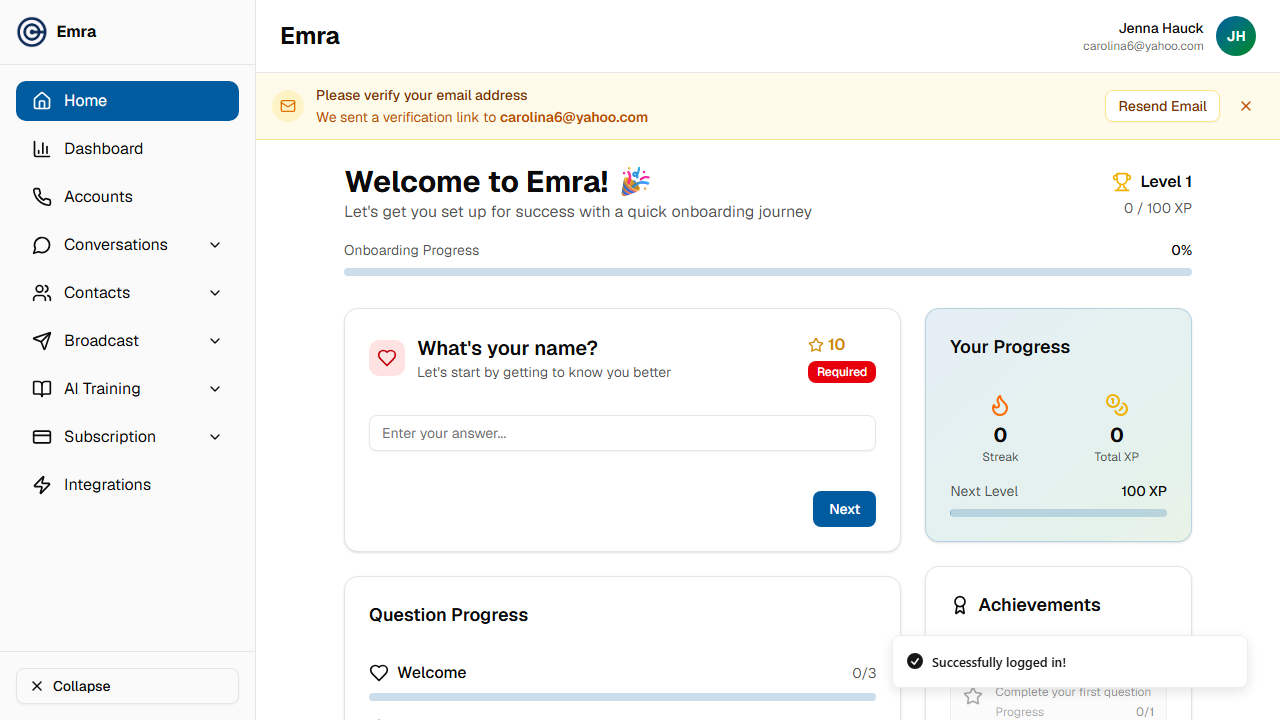
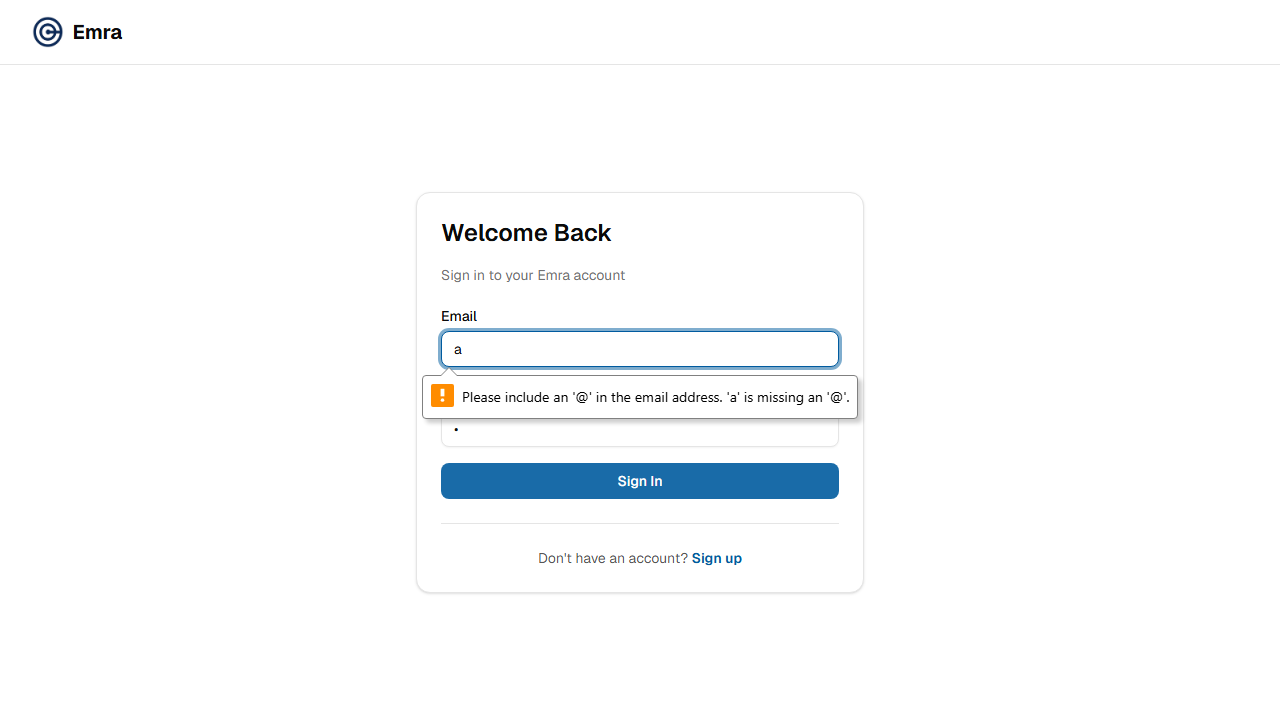
Tambah env dan perubahan config

diff --git a/pages/login.page.ts b/pages/login.page.ts
@@ -12,16 +12,12 @@ export class LoginPage {
     this.emailField = page.getByRole('textbox', { name: 'Email' });
     this.passwordField = page.getByRole('textbox', { name: 'Password' });
     this.loginButton = page.getByRole('button', { name: 'Sign In' });
-    this.welcomeText = page.getByRole('heading', {
-      name: 'Welcome to Emra! 🎉',
-      exact: true
-    });
+    this.welcomeText = page.getByRole('heading', {name: 'Welcome to Emra! 🎉',exact: true});
   }
 
   async goto(){
     await this.page.goto('/login'); // 
     await this.page.waitForLoadState('networkidle');
-    console.log("After Login URL:", await this.page.url());
     await expect(this.emailField).toBeVisible();
     await expect(this.passwordField).toBeVisible();
   }
@@ -29,56 +25,23 @@ export class LoginPage {
    async login(email: string, password: string) {
     await this.emailField.fill(email);
     await this.passwordField.fill(password);
-    console.log(
-    'Login Email:',
-    await this.emailField.inputValue()
-  );
-
-  console.log(
-    'Login Password:',
-    await this.passwordField.inputValue()
-  );
-
     await this.loginButton.click();
-
     await this.page.waitForTimeout(3000);
-
-    console.log('Current URL:', await this.page.url());
-
-    const bodyText = await this.page.locator('body').innerText();
-
-    console.log('PAGE CONTENT:');
-    console.log(bodyText);
-
-    await this.page.screenshot({
-      path: 'after-click-login.png',
-      fullPage: true
-    });
+    // await this.page.screenshot({path: 'after-click-login.png',fullPage: true});
   }
   
    async verifyLoginSuccess() {
-    await expect(
-      this.page.getByRole('heading', {name: 'Welcome to Emra! 🎉',
-        exact: true})).toBeVisible();
-  }
+    await expect(this.page.getByRole('heading', {name: 'Welcome to Emra! 🎉',exact: true})).toBeVisible();}
 
-  async verifyInvalidCredentials() {
-    await expect(
-      this.page.getByText('Invalid credentials')).toBeVisible();
-  }
+   async verifyInvalidCredentials() {
+    await expect(this.page.getByText('Invalid credentials')).toBeVisible();}
 
-  async getEmailValidationMessage() {
-    return await this.emailField.evaluate((el: HTMLInputElement) => el.validationMessage);
-  }
+   async getEmailValidationMessage() {
+    return await this.emailField.evaluate((el: HTMLInputElement) => el.validationMessage);}
 
-  async verifyInvalidEmailFormat() {
-  const validationMessage =
-    await this.emailField.evaluate(
-      (el: HTMLInputElement) => el.validationMessage
-    );
-
-  expect(validationMessage).toContain(
-    "Please include an '@' in the email address."
-  );
+   async verifyInvalidEmailFormat() {
+   const validationMessage =await this.emailField.evaluate((el: HTMLInputElement) => el.validationMessage);
+   expect(validationMessage).toContain("Please include an '@' in the email address."
+   );
 }
 }

diff --git a/tests/login/login.spec.ts b/tests/login/login.spec.ts
@@ -1,14 +1,15 @@
 import { test, expect } from '@playwright/test';
+import { testData } from '../../pages/test-data';
 
 test('test', async ({ page }) => {
   await page.goto('https://www.emra.chat/login');
   await page.getByRole('textbox', { name: 'Email' }).click();
-  await page.getByRole('textbox', { name: 'Email' }).fill('nuruddinam46@gmail.com');
+  await page.getByRole('textbox', { name: 'Email' }).fill(testData.login.valid.email);
   await page.getByRole('textbox', { name: 'Password' }).click();
   await page.getByRole('textbox', { name: 'Password' }).press('CapsLock');
   await page.getByRole('textbox', { name: 'Password' }).fill('S');
   await page.getByRole('textbox', { name: 'Password' }).press('CapsLock');
-  await page.getByRole('textbox', { name: 'Password' }).fill('Suksesmulia99');
+  await page.getByRole('textbox', { name: 'Password' }).fill(testData.login.valid.password);
   await page.getByRole('button', { name: 'Sign In' }).click();
   await expect(page.getByRole('heading', { name: 'Welcome to Emra! 🎉' })).toBeVisible();
   await page.screenshot({path: 'screenshots/login-success.png', fullPage: true});
@@ -19,8 +20,8 @@ test('login success use valid credential @p0 @login @smoketest', async ({ page }
   // Precondition
   await page.goto('https://www.emra.chat/login');
   // Step
-  await page.getByRole('textbox', {name: 'Email'}).fill('nuruddinam46@gmail.com');
-  await page.getByRole('textbox', {name: 'Password'}).fill('Suksesmulia99');
+  await page.getByRole('textbox', {name: 'Email'}).fill(testData.login.valid.email);
+  await page.getByRole('textbox', {name: 'Password'}).fill(testData.login.valid.password);
   await page.getByRole('button', {name: 'Sign In'}).click();
   // Expected Result
   await expect(page.getByRole('heading', {name: 'Welcome to Emra! 🎉',exact: true})).toBeVisible();

diff --git a/playwright.config.ts b/playwright.config.ts
@@ -8,22 +8,26 @@ dotenv.config({ path: path.resolve(__dirname, '.env') });
 export default defineConfig({
   testDir: './tests',
   
-  // 🟢 POSISI YANG BENAR: Taruh testIgnore di sini (top-level)
+  //   POSISI YANG BENAR: Taruh testIgnore di sini (top-level)
   testIgnore: '**/forgotpassword/**', // Sesuai dengan folder kamu: tests/forgotpassword/
 
   fullyParallel: true,
   forbidOnly: !!process.env.CI,
-  retries: process.env.CI ? 2 : 0,
-  workers: process.env.CI ? 1 : undefined,
-  reporter: 'html',
+  retries: Number(process.env.PLAYWRIGHT_RETRIES),
+  workers: Number(process.env.PLAYWRIGHT_WORKERS),
+  reporter: [
+    ['html'], // Tetap membuat laporan web HTML seperti biasa
+    ['json', { outputFile: 'playwright-report/results.json' }] // Menghasilkan file hasil.json
+  ],
+  timeout : 30000, //Setting timeout 30 detik
 
   use: {
-    // 🟢 Ambil URL utama dari .env, atau jadikan emra.chat sebagai default
-    baseURL: process.env.BASE_URL || 'https://www.emra.chat', 
+    //  Ambil URL utama dari .env, atau jadikan emra.chat sebagai default
+    baseURL: process.env.BASE_URL, 
 
     screenshot: 'only-on-failure', // Hanya ambil gambar saat gagal
     video: 'retain-on-failure',   // Hanya rekam video saat gagal
-    trace: 'retain-on-failure',   // 🟢 Trace viewer otomatis aktif di lokal jika test failed
+    trace: 'on-first-retry',   // Saat percobaan pertama
   },
 
   projects: [

diff --git a/tests/login/loginpom.spec.ts b/tests/login/loginpom.spec.ts
@@ -1,15 +1,14 @@
 import { test } from '@playwright/test';
 import { LoginPage } from '../../pages/login.page';
+import { testData } from '../../pages/test-data';
 
 //Positive TC
 test('1-Login success use valid credential @p0 @login @smoketest', async ({ page }) => {
- const email ="nuruddinam46@gmail.com"
- const password = "Suksesmulia99"
  const loginPage = new LoginPage(page)
 
  await loginPage.goto()
- await loginPage.emailField.fill(email)
- await loginPage.passwordField.fill(password)
+ await loginPage.emailField.fill(testData.login.valid.email);
+ await loginPage.passwordField.fill(testData.login.valid.password);
  await loginPage.loginButton.click();
 });
 
@@ -18,7 +17,7 @@ test('2-Login failed email invalid @p0 @login @smoketest', async ({ page }) => {
   const loginPage = new LoginPage(page);
 
   await loginPage.goto();
-  await loginPage.login('nuruddinam@gmail.com', 'Suksesmulia99');
+  await loginPage.login(testData.login.invalid.unregisteredEmail, testData.login.valid.password);
   await loginPage.verifyInvalidCredentials();
 });
 

diff --git a/pages/test-data.ts b/pages/test-data.ts
@@ -1,0 +1,13 @@
+import jsonData from '../data/test-data.json'; // Sesuaikan folder arah ke data.json kamu
+
+export const testData = {
+  ...jsonData, // Menyalin seluruh isi data dari file json di atas
+  login: {
+    ...jsonData.login,
+    valid: {
+      // 🟢 Di sini data dinamis .env dimasukkan dengan aman
+      email: process.env.VALID_EMAIL as string,
+      password: process.env.VALID_PASSWORD as string
+    }
+  }
+};

diff --git a/tests/login/loginpomdata.spec.ts b/tests/login/loginpomdata.spec.ts
@@ -1,6 +1,6 @@
 import { test } from '@playwright/test';
 import { LoginPage } from '../../pages/login.page';
-import testData from '../../data/test-data.json';
+import { testData } from '../../pages/test-data';
 
 //Positive TC
 test('1-Login success use valid credential @p0 @login @smoketest', async ({ page }) => {
